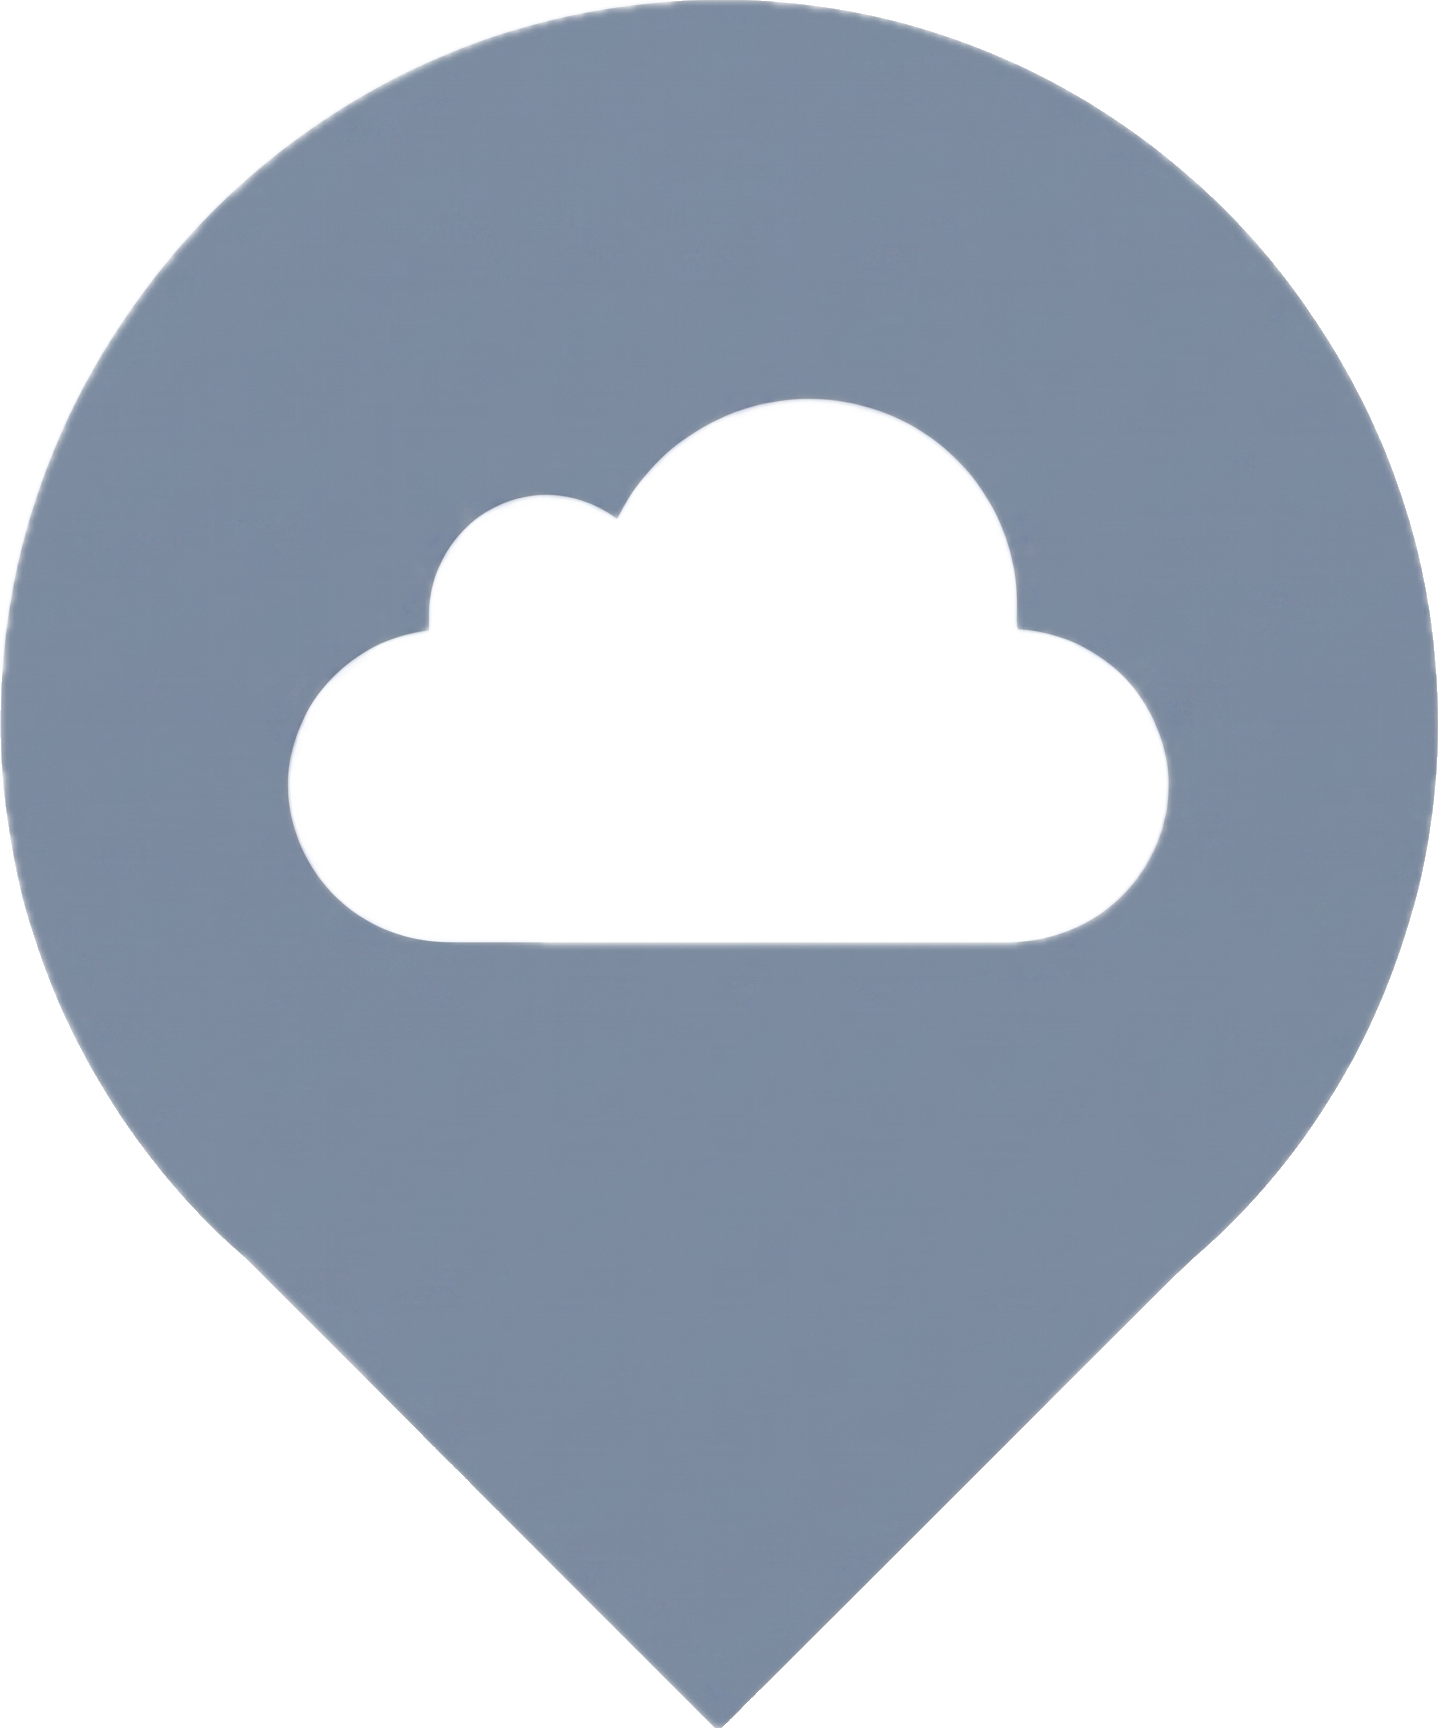
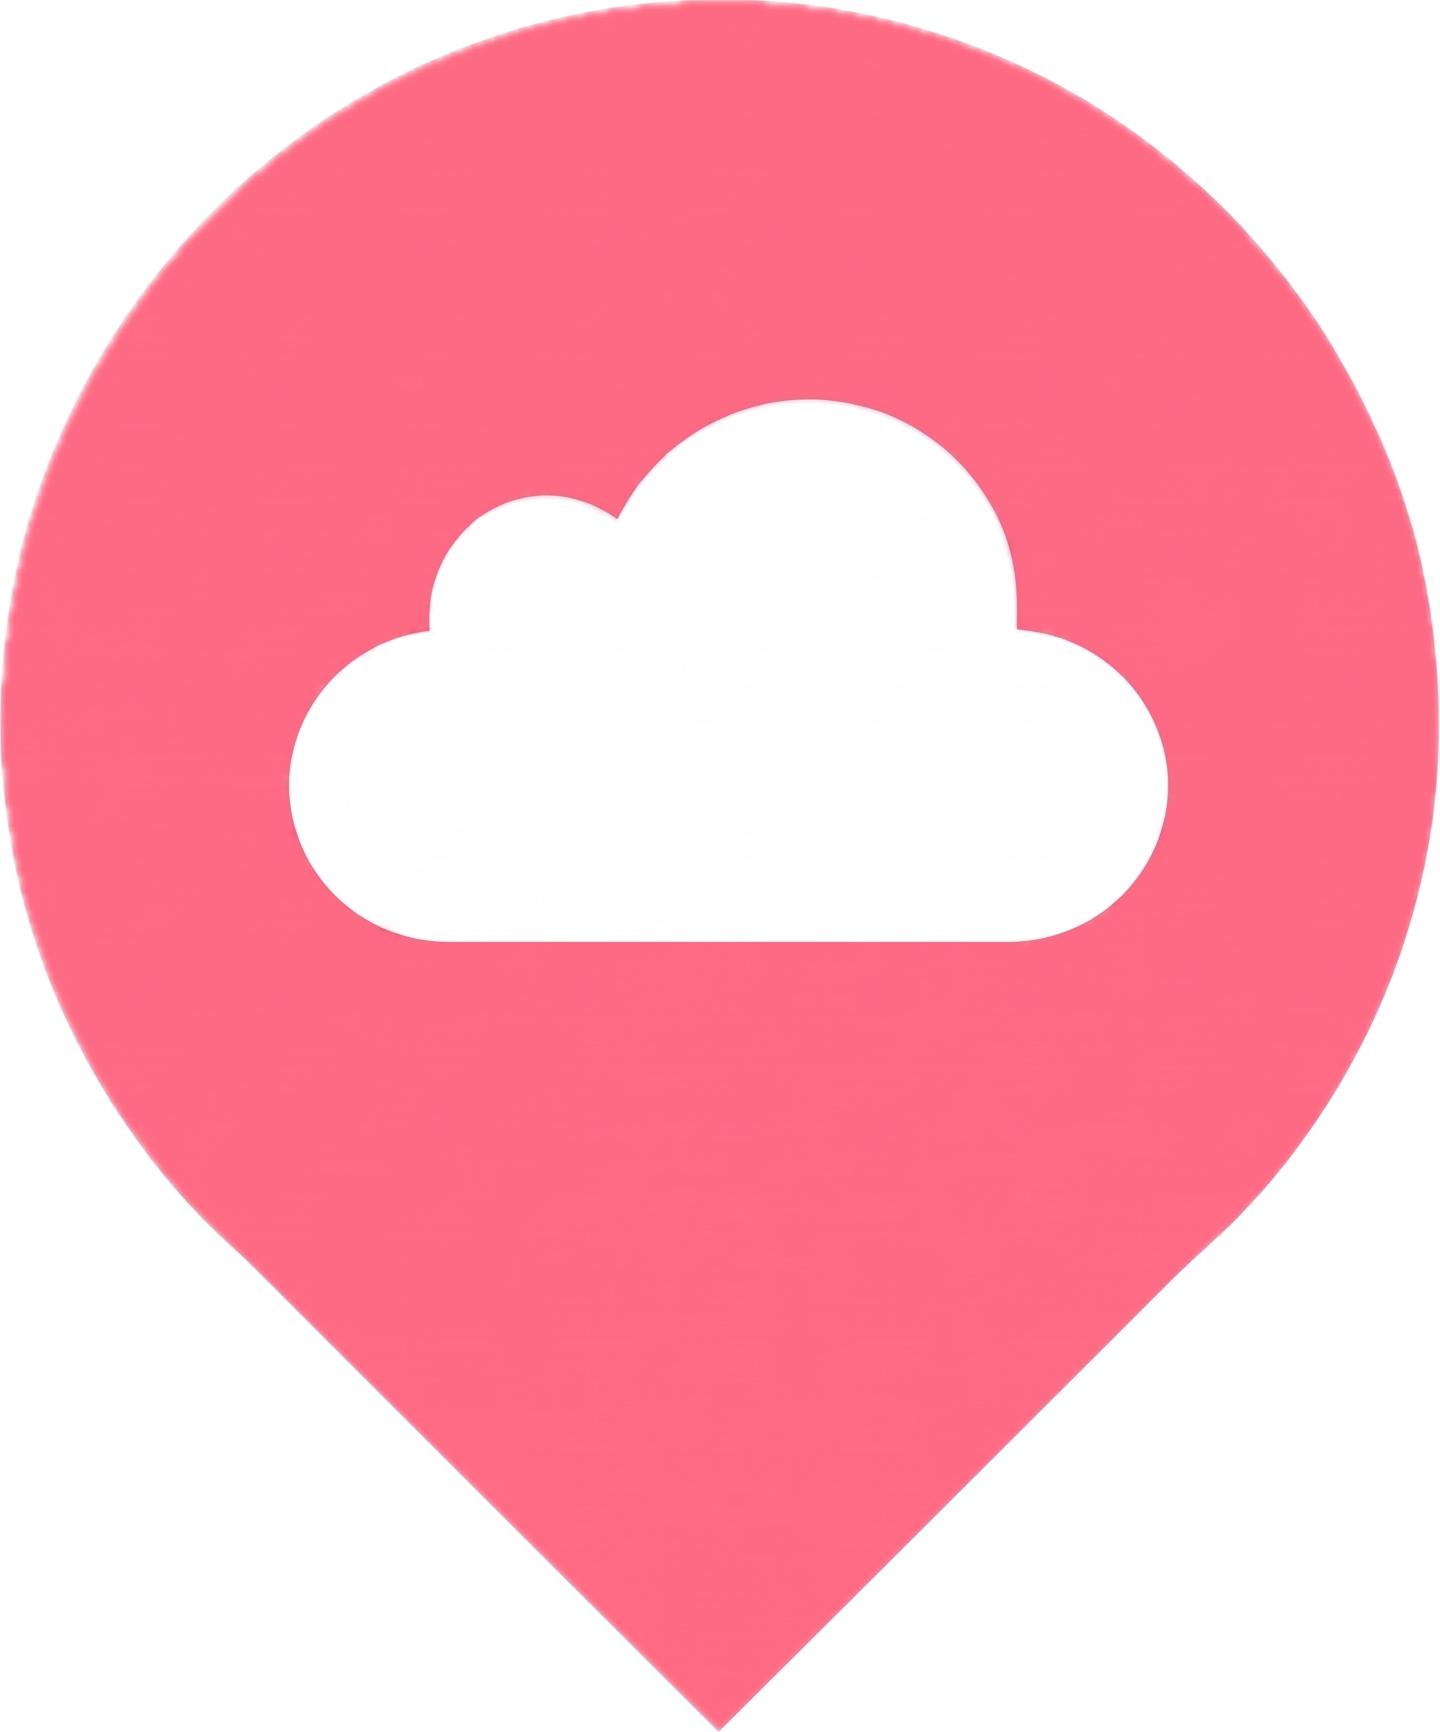
feat: UI polish

diff --git a/components/layout/Header.tsx b/components/layout/Header.tsx
@@ -360,29 +360,20 @@ export function Header() {
           {/* 로고 — 모바일: 왼쪽 고정 / 데스크탑: 절대 중앙 */}
           <Link
             href="/"
-            className="flex items-center gap-2 group shrink-0 md:absolute md:left-1/2 md:-translate-x-1/2"
+            className="flex items-center group shrink-0 md:absolute md:left-1/2 md:-translate-x-1/2"
             aria-label="몽글 홈으로 이동"
           >
-            <div className="transition-transform duration-200 group-hover:scale-110 group-hover:-rotate-3">
+            <div className="transition-transform duration-200 group-hover:scale-105 -ml-3 md:ml-0">
               <Image
-                src="/logo.png"
-                alt="몽글 로고"
-                width={22}
-                height={28}
-                className="w-5 h-6 md:w-9 md:h-12 object-contain"
+                src="/header.png"
+                alt="몽글"
+                width={160}
+                height={48}
+                className="h-15 w-auto md:h-18 object-contain"
                 priority
                 loading="eager"
               />
             </div>
-            <span
-              className="leading-none font-jua text-xl md:text-[1.75rem] transition-all duration-500"
-              style={{
-                color: "var(--mongle-peach)",
-                textShadow: scrolled ? "none" : "0 1px 8px rgba(244,246,248,0.9)",
-              }}
-            >
-              몽글
-            </span>
           </Link>
 
           {/* 좌측 네비 — 데스크탑만 표시 */}

diff --git a/app/places/[id]/page.tsx b/app/places/[id]/page.tsx
@@ -1,4 +1,5 @@
 import { notFound } from "next/navigation";
+import { headers } from "next/headers";
 import { MapPin, Phone, ExternalLink } from "lucide-react";
 import { createClient } from "@/lib/supabase/server";
 import { NaverMap } from "@/components/place/NaverMap";
@@ -22,6 +23,8 @@ export default async function PlaceDetailPage({
   params: Promise<{ id: string }>;
 }) {
   const { id } = await params;
+  const ua = (await headers()).get("user-agent") ?? "";
+  const isMobile = /iPhone|iPad|Android/i.test(ua);
 
   // UUID 형식 검증 — 형식이 맞지 않으면 즉시 404 반환하여 불필요한 DB 쿼리 방지
   const UUID_REGEX = /^[0-9a-f]{8}-[0-9a-f]{4}-[0-9a-f]{4}-[0-9a-f]{4}-[0-9a-f]{12}$/i;
@@ -150,7 +153,9 @@ export default async function PlaceDetailPage({
               </a>
             )}
             <a
-              href={`https://www.instagram.com/explore/search/keyword/?q=${encodeURIComponent(place.name)}`}
+              href={isMobile
+                ? `https://www.instagram.com/popular/${encodeURIComponent(place.name)}`
+                : `https://www.instagram.com/explore/search/keyword/?q=${encodeURIComponent(place.name)}`}
               target="_blank"
               rel="noopener noreferrer"
               className="inline-flex items-center gap-1.5 text-sm font-medium transition-opacity hover:opacity-70"

diff --git a/components/courses/CourseRecommendSetup.tsx b/components/courses/CourseRecommendSetup.tsx
@@ -253,7 +253,7 @@ export function CourseRecommendSetup({ districts }: { districts: string[] }) {
           {isLoading ? (
             <>
               <Loader2 size={18} className="animate-spin mr-2" />
-              <span className="flex-1 text-center">코스 만드는 중...</span>
+              <span className="flex-1 text-center">당신에게 어울리는 코스를 만드는 중이에요</span>
             </>
           ) : (
             <>

diff --git a/components/home/PlacesGridClient.tsx b/components/home/PlacesGridClient.tsx
@@ -131,7 +131,7 @@ export function PlacesGridClient({
                     className="w-3.5 h-3.5 rounded-full border-2 animate-spin inline-block"
                     style={{ borderColor: "rgba(255,255,255,0.4)", borderTopColor: "white" }}
                   />
-                  장소 불러오는 중…
+                  장소를 찾는 중이에요
                 </span>
               ) : "장소 더 보기"}
             </button>

diff --git a/components/places/PlacesMapLayout.tsx b/components/places/PlacesMapLayout.tsx
@@ -225,7 +225,7 @@ export function PlacesMapLayout({ initialPlaces, savedIds, availableDistricts }:
             style={{ borderColor: "var(--mongle-peach)", borderTopColor: "transparent" }}
           />
           <p className="text-xs" style={{ color: "var(--mongle-brown)", opacity: 0.45 }}>
-            동네 탐색 중…
+            분위기 좋은 장소를 고르고 있어요
           </p>
         </div>
       )}

diff --git a/app/places/loading.tsx b/app/places/loading.tsx
@@ -1,5 +1,5 @@
 import { MongleLoader } from "@/components/ui/MongleLoader";
 
 export default function PlacesLoading() {
-  return <MongleLoader fullPage />;
+  return <MongleLoader fullPage text="장소를 찾는 중이에요" />;
 }
